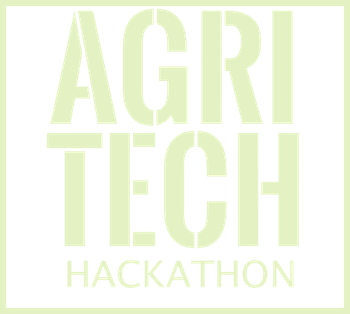
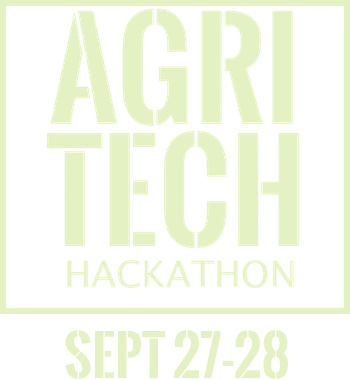
added the link to google form and the date

diff --git a/index.html b/index.html
@@ -91,7 +91,7 @@ Moreover lots of goodies and swags for all</p></li>
       </div>
       <div class="modal-footer">
         <button type="button" class="btn btn-default" data-dismiss="modal">Close</button>
-        <button type="button" class="btn btn-primary">Save changes</button>
+        
       </div>
     </div>
   </div>
@@ -122,7 +122,7 @@ Moreover lots of goodies and swags for all</p></li>
   <div class="row">
 <div class="col-sm-3 col-sm-offset-1 textpart" id="register">
   <h3>REGISTER YOUR WAY IN.</h3>
-  <a href="linktogoogleform">FIll Up The Form Here</a>
+  <a href="https://goo.gl/forms/cbxKQo3moPlkI0e63">FIll Up The Form Here</a>
 
 
 </div>
